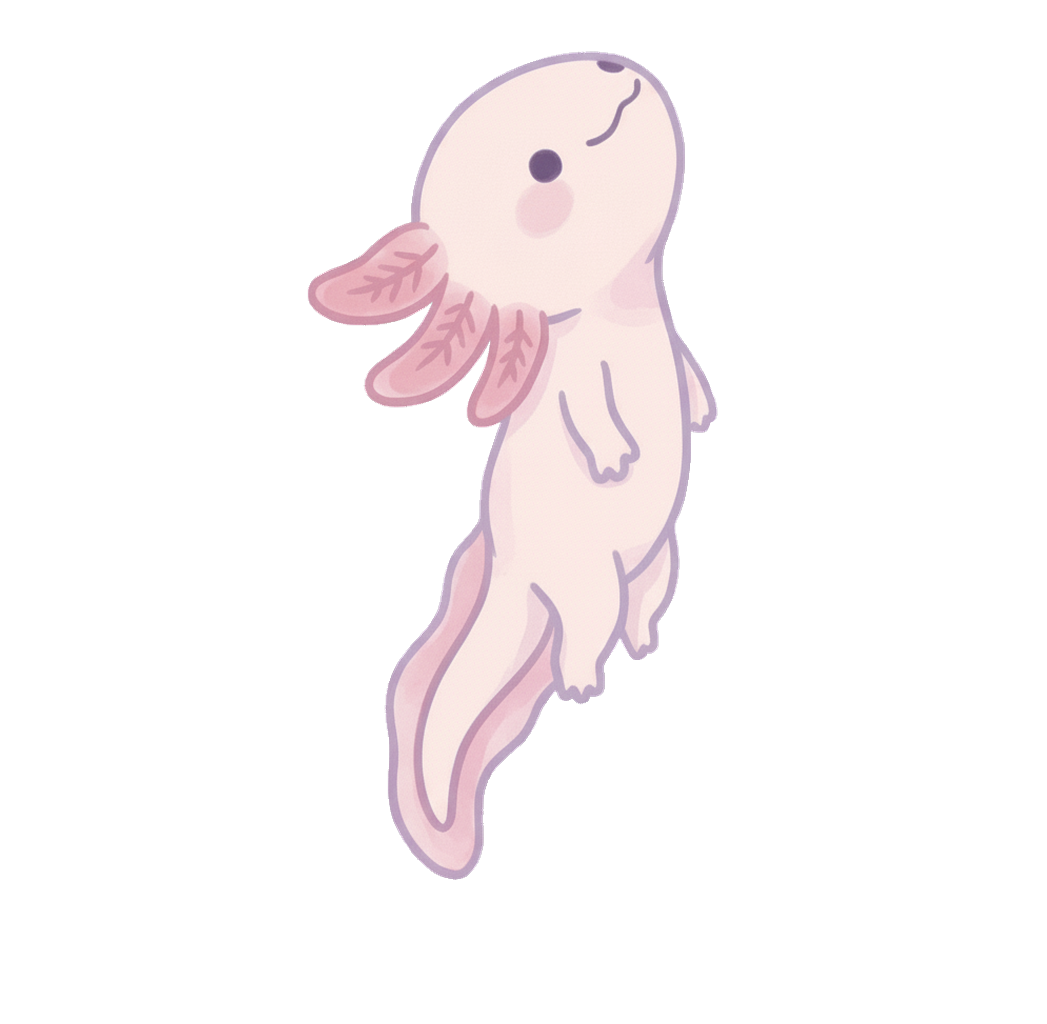
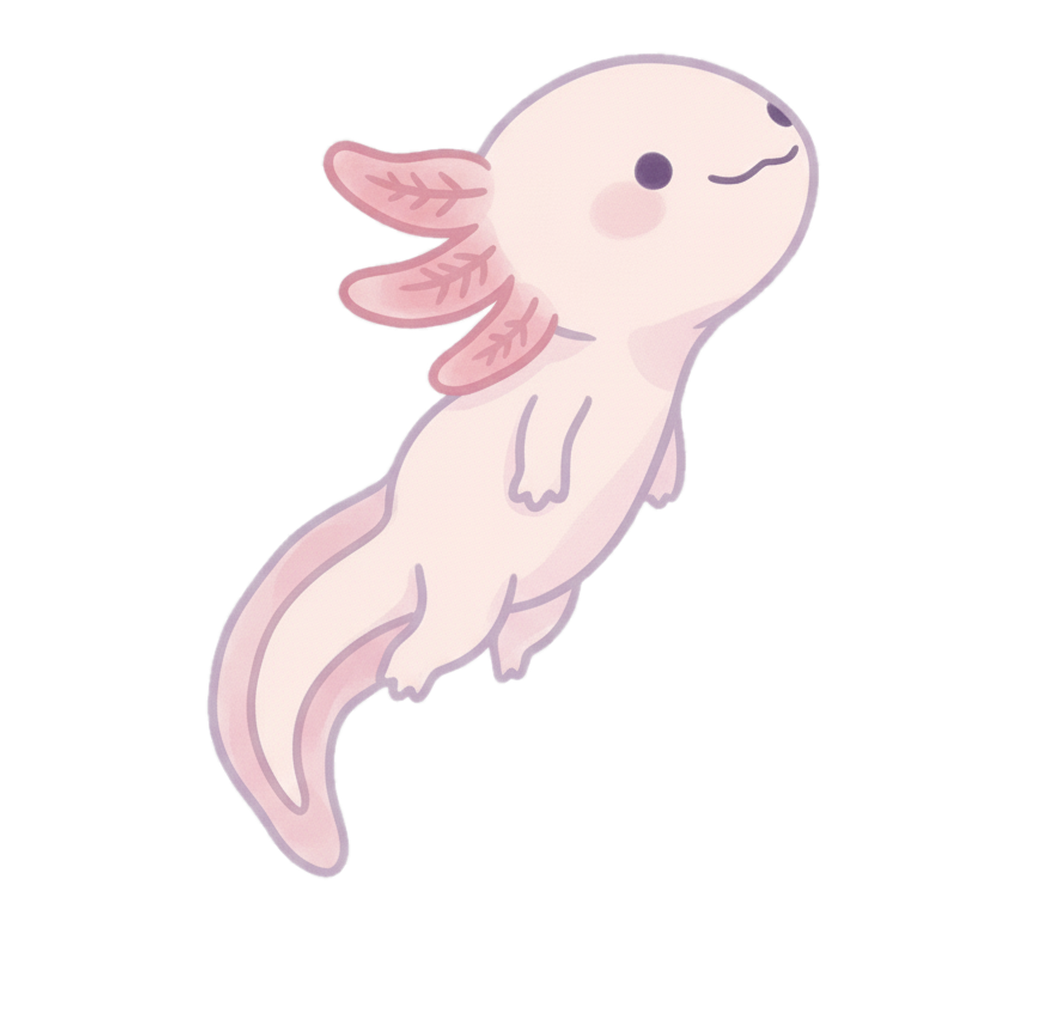
Rehacer nado diagonal desde cero, arreglar tiburón/pez grande congelados
- swim_diagonal: se descarta por completo la versión anterior (incluido el
  intento de arreglo de boca, rechazado por verse mal). Nueva referencia
  generada desde cero con Gemini, segundo frame derivado SOLO del primero
  (mismo truco de registro de ojos que ya funcionó antes) para variar
  apenas la cola sin mover cabeza/ojos/boca. Boca limpia, una sola vez.
- SWIM_SIDE_SCALE_CORRECTION: 0.64 -> 0.85. La corrección anterior (pese a
  ser más precisa según medición de píxeles) se veía demasiado agresiva en
  juego real; se deja solo una reducción del 15%.
- Tiburón y pez grande estaban congelados tras aparecer: Phaser resetea la
  velocidad a 0 al añadir un sprite a un grupo físico (Group.add), justo
  después de que el constructor la fijara. Se soluciona reafirmando la
  velocidad en cada update(), no solo al llegar a un borde de patrulla.
- CAMERA_AUTO_RISE_SPEED: 30 -> 42 (+40%, pedido explícito).

Claude-Session: https://claude.ai/code/session_01NECFQR9dVFqZkCEBdrXX6e

Changed region(s): [[0.1834, 0.0312, 0.7947, 0.875]]

diff --git a/src/config/GameConfig.ts b/src/config/GameConfig.ts
@@ -29,12 +29,11 @@ export const LUMI_SCALE = 0.075 * 3 * 1.2;
 // Pedido explícito: Lumi se sentía lenta. Subido desde 220.
 export const LUMI_SWIM_SPEED = 260; // px/seg
 
-// El arte de swim_right/swim_left está dibujado sensiblemente más grande
-// que el de idle/swim_up/diagonal dentro del mismo lienzo (~57% más grande
-// de cabeza a cabeza, medido) — no es una pose distinta, es una
-// inconsistencia real del asset. Se corrige por código con un multiplicador
-// extra solo en esos dos estados en vez de regenerar el arte.
-export const SWIM_SIDE_SCALE_CORRECTION = 0.64;
+// El arte de swim_right/swim_left está dibujado algo más grande que el de
+// idle/swim_up/diagonal dentro del mismo lienzo. La corrección de 0.64 fue
+// pedido explícito de bajarla: se notaba demasiado el cambio de tamaño al
+// pasar a nadar de lado y se veía mal. Se deja solo un ajuste leve del 15%.
+export const SWIM_SIDE_SCALE_CORRECTION = 0.85;
 
 // Hundimiento suave cuando Lumi no nada activamente: sin esto no habría
 // tensión ninguna en un juego de escalada (podrías quedarte quieta para
@@ -65,8 +64,8 @@ export const JELLYFISH_SCALE = 0.16;
 // (px/seg) sin parar, mucho más despacio que nadar a tope, para que exista
 // presión incluso si el jugador va despacio. Si Lumi sube más rápido que
 // esto, manda su propia velocidad (ver PondScene.update). Pedido explícito:
-// un poco más rápido que antes.
-export const CAMERA_AUTO_RISE_SPEED = 30;
+// otro +40% sobre el valor anterior (30 -> 42).
+export const CAMERA_AUTO_RISE_SPEED = 42;
 
 // Tiburones: segundo enemigo, "poco a poco" tras la medusa — empiezan a
 // aparecer más arriba (altura ~300, dentro de la Zona 1) y patrullan de

diff --git a/src/entities/Shark.ts b/src/entities/Shark.ts
@@ -57,12 +57,16 @@ export class Shark {
     if (this.sprite.x >= this.maxX && this.direction === 1) {
       this.direction = -1;
       this.sprite.setFlipX(false);
-      this.sprite.setVelocityX(SHARK_PATROL_SPEED * this.direction);
     } else if (this.sprite.x <= this.minX && this.direction === -1) {
       this.direction = 1;
       this.sprite.setFlipX(true);
-      this.sprite.setVelocityX(SHARK_PATROL_SPEED * this.direction);
     }
+    // Reafirmar la velocidad TODOS los frames, no solo al girar: al añadir
+    // el sprite al grupo físico de Phaser (ver SharkSpawner), el grupo
+    // resetea la velocidad a 0 justo después de que el constructor la fija
+    // — sin esto el tiburón se quedaba parado para siempre (nunca llegaba a
+    // un borde para volver a fijarla).
+    this.sprite.setVelocityX(SHARK_PATROL_SPEED * this.direction);
 
     this.sprite.y = this.baseY + Math.sin(t * BOB_SPEED + this.phase) * BOB_AMPLITUDE;
     this.sprite.rotation = Math.sin(t * BOB_SPEED + this.phase) * TILT_AMOUNT * this.direction;

diff --git a/src/entities/BigFish.ts b/src/entities/BigFish.ts
@@ -45,12 +45,15 @@ export class BigFish {
     if (this.sprite.x >= this.maxX && this.direction === 1) {
       this.direction = -1;
       this.sprite.setFlipX(true);
-      this.sprite.setVelocityX(BIG_FISH_PATROL_SPEED * this.direction);
     } else if (this.sprite.x <= this.minX && this.direction === -1) {
       this.direction = 1;
       this.sprite.setFlipX(false);
-      this.sprite.setVelocityX(BIG_FISH_PATROL_SPEED * this.direction);
     }
+    // Igual que el tiburón: reafirmar cada frame, no solo al girar — el
+    // grupo físico resetea la velocidad a 0 justo después de que el
+    // constructor la fija (ver BigFishSpawner), si no el pez se queda
+    // parado para siempre.
+    this.sprite.setVelocityX(BIG_FISH_PATROL_SPEED * this.direction);
 
     this.sprite.y = this.baseY + Math.sin(t * BOB_SPEED + this.phase) * BOB_AMPLITUDE;
   }
